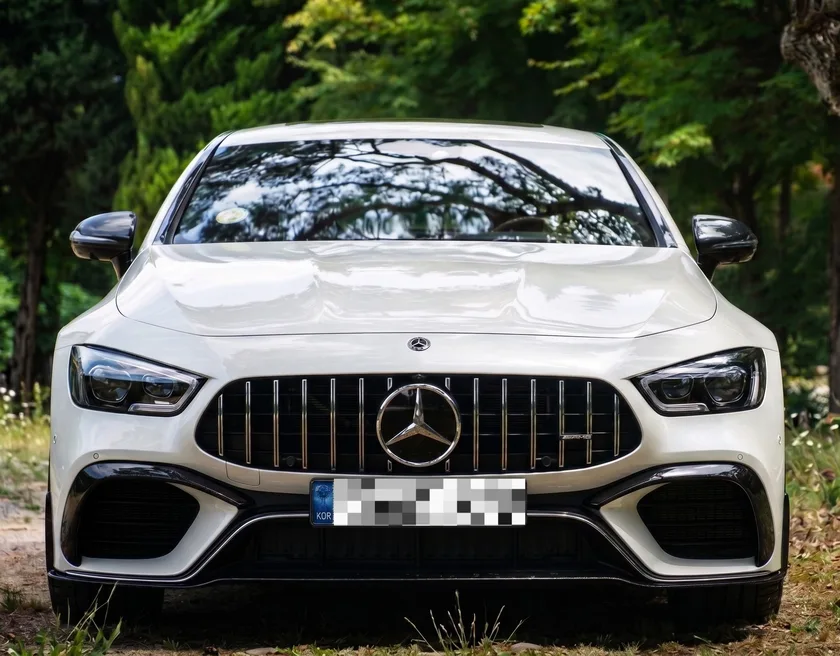
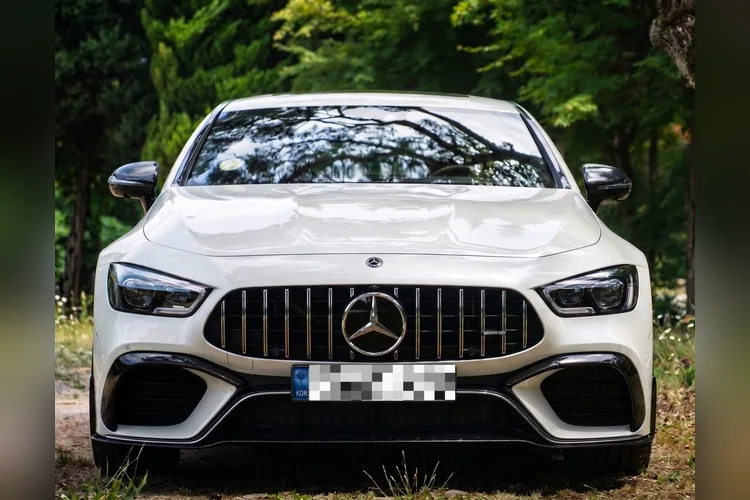
벤츠 카드 모바일 정렬 수정: 이미지 16장 750x500 통일 규격으로 교체 + 원본비율 예외 CSS 제거
증상: 모바일(주력)에서 벤츠 카드 줄의 높이가 제각각(164~203px)이라 같은 줄 이름표가 어긋남.
원인: 벤츠 사진이 폭 840에 높이 656~863으로 비율이 전부 달랐고, css/style.css 의
  .benz-cards .modelSwiper .vehicle-image{ aspect-ratio:auto } 예외가 카드를 원본 비율대로 늘림.

수정:
- img/cars/벤츠 *.webp 16장을 7/18 커밋 66be123(kimbujang-hold 히스토리) 버전으로 교체:
  전부 750x500(3:2), 차량은 잘리지 않게 contain 하고 좌우는 블러 배경으로 채운 규격.
  (같은 날 1d52e3c 버전은 차를 더 크게 넣는 대신 위아래가 살짝 잘려 제외)
- .benz-cards 예외 규칙 제거 → 전 카드 공통 3:2 규칙 적용, .benz-cards .mr-name 하단 8px (66be123 동일)
- style.css 캐시버스터 v=mobile41

검증: Playwright 카드 높이 측정 — 모바일 16장 전부 149px, 데스크탑 전부 282px (수정 전 164~203 / 322~410)

diff --git a/css/style.css b/css/style.css
@@ -1465,9 +1465,9 @@ a:focus-visible {
 /* 여러 모델 묶음 행: 각 이미지 아래 개별 모델명 */
 .mr-multi .mr-name{ text-align:center; margin:10px 0 0; font-size:14px; font-weight:700; color:var(--text-dark); word-break:keep-all; }
 @media (max-width:767px){ .mr-multi .mr-name{ font-size:12px; margin-top:7px; } }
-/* 벤츠 라인업: 라벨 없는 카드 그리드, 이미지 크롭 없이 원본 비율 전체 표시 */
-.benz-cards .modelSwiper .vehicle-image{ height:auto; aspect-ratio:auto; }
-.benz-cards .modelSwiper .vehicle-image img{ height:auto; }
+/* 벤츠 라인업: 라벨 없는 카드 그리드. 이미지 파일이 전부 750x500(3:2) 통일 규격
+   (차량 contain + 좌우는 블러 배경 채움)이라 기본 3:2 카드에 꽉 차게 들어감 */
+.benz-cards .mr-name{ margin:10px 0 8px; }
 @keyframes mrNext{ from{ opacity:0; transform:translateX(45px); } to{ opacity:1; transform:none; } }
 @keyframes mrPrev{ from{ opacity:0; transform:translateX(-45px); } to{ opacity:1; transform:none; } }
 @media (max-width:767px){

diff --git a/index.html b/index.html
@@ -76,7 +76,7 @@
     <link rel="stylesheet" href="https://cdn.jsdelivr.net/npm/swiper@11/swiper-bundle.min.css">
     
     <!-- CSS (1번 구조 - 분리된 파일) -->
-    <link rel="stylesheet" href="css/style.css?v=mobile40">
+    <link rel="stylesheet" href="css/style.css?v=mobile41">
 
 </head>
 <body>
